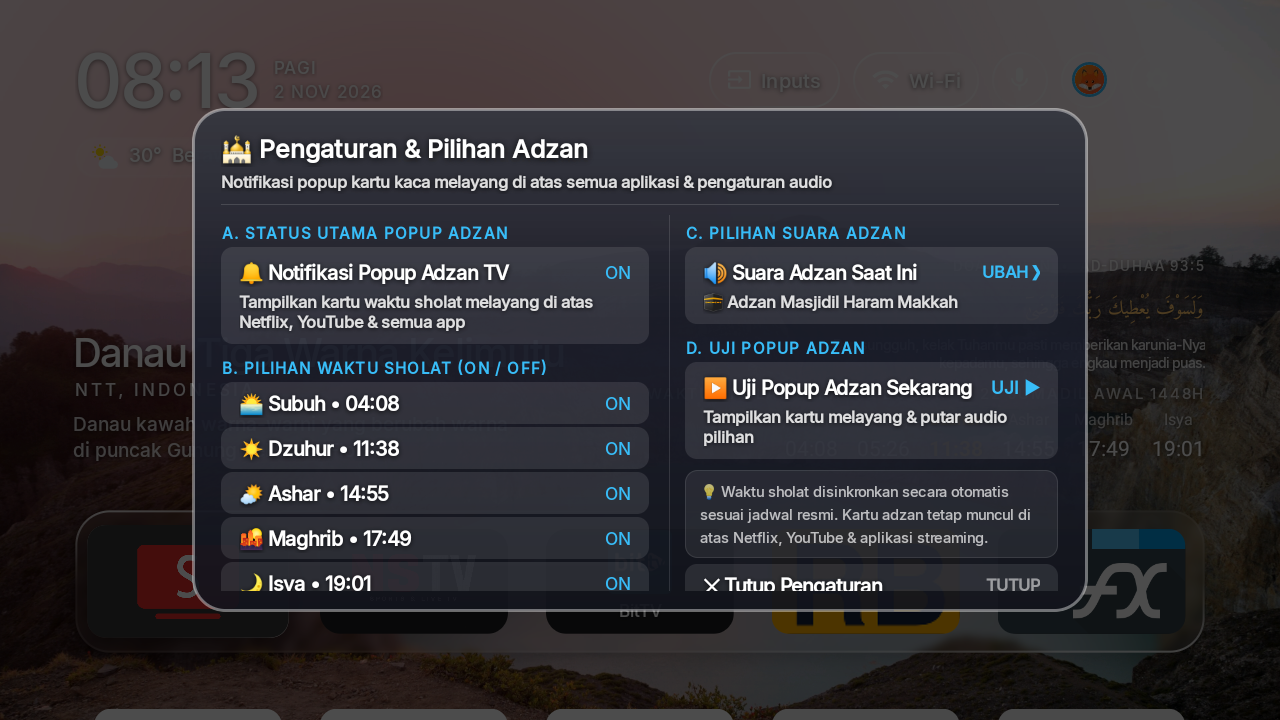
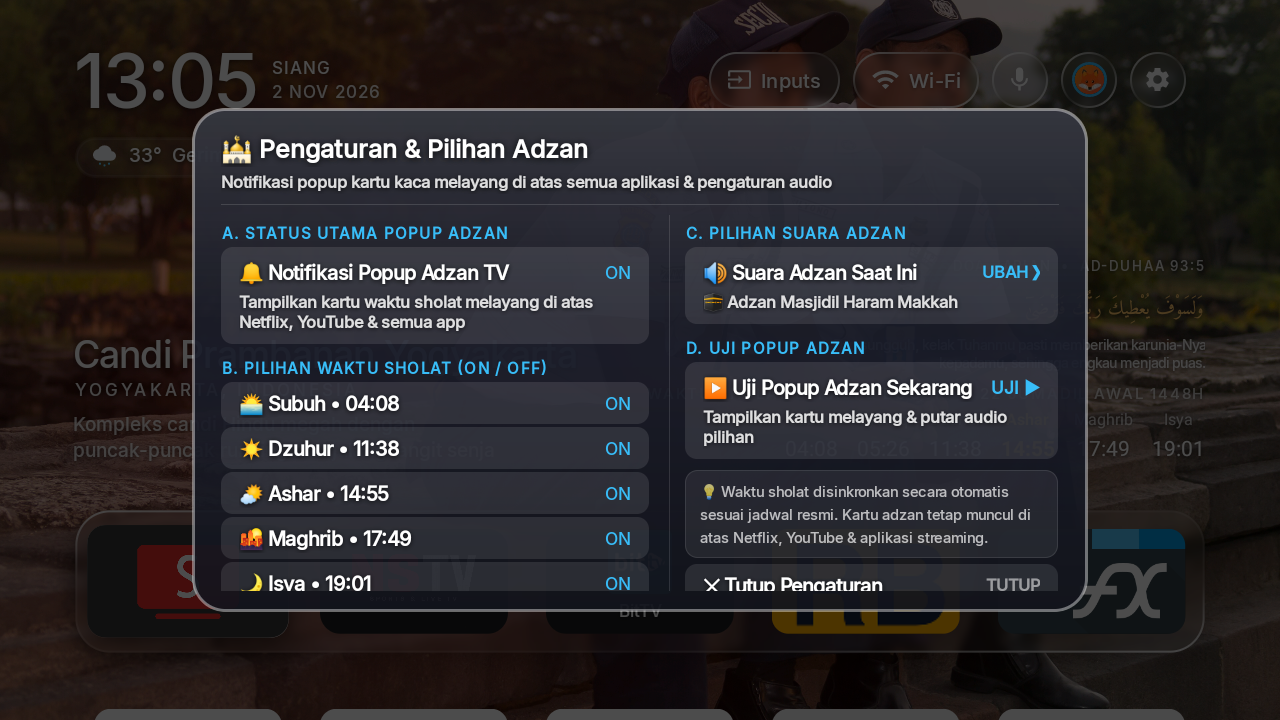
Poster promo diperbarui: tangkapan UI terbaru dan angka versi 4.0.3
- tools/create_poster.py: badge header dan watermark footer 4.0.1 menjadi 4.0.3,
  chip ukuran APK 1.6 MB menjadi 1.5 MB, subtitle menyebut empat gaya jam,
  label kartu kiri bawah "StandBy OLED Clock" menjadi "StandBy Clock • 4 Styles".
- docs/screenshots/wallpaper-dialog-live.png dan azan-popup-live.png ditangkap
  ulang langsung dari TV: screenshot lama masih menyimpan kata "Tersohor" dan
  "Tutur Pengaturan" yang di aplikasi sekarang sudah "Terkenal" dan
  "Tutup Pengaturan".
- docs/poster.html: deskripsi screensaver StandBy disamakan dengan isi v4.0.2.
- Poster hasil regenerasi: docs/screenshots/glass_tv_os_showcase_poster.jpg.

diff --git a/docs/poster.html b/docs/poster.html
@@ -272,7 +272,7 @@
           <ul class="text-xs text-slate-300 space-y-1.5 leading-relaxed">
             <li class="flex items-start gap-2">
               <span class="text-sky-400">•</span>
-              <span><strong>10-Min Inactivity:</strong> Transitions to OLED-safe burn-in protected StandBy screensaver with 110sp digits.</span>
+              <span><strong>10-Min Inactivity:</strong> Transitions to the StandBy screensaver — four clock styles over a frosted wallpaper, aurora glow or black OLED, with dimming and anti-burn-in drift.</span>
             </li>
             <li class="flex items-start gap-2">
               <span class="text-sky-400">•</span>

diff --git a/tools/create_poster.py b/tools/create_poster.py
@@ -121,7 +121,7 @@ def main():
     
     # --- HEADER SECTION ---
     # Top Pill Badge
-    badge_text = "GLASS OS 4.0.1 • LIVING ROOM OPERATING SYSTEM • ANDROID TV 9-14"
+    badge_text = "GLASS OS 4.0.3 • LIVING ROOM OPERATING SYSTEM • ANDROID TV 9-14"
     bbox_b = font_badge.getbbox(badge_text)
     bw = bbox_b[2] - bbox_b[0] + 32
     bh = 28
@@ -134,11 +134,11 @@ def main():
     
     # Title & Subtitle
     draw.text((70, 76), "Glass TV Home", font=font_title, fill=(255, 255, 255, 255))
-    draw.text((70, 132), "Mindful living room OS featuring Apple Weather Bento, 16:9 Adzan Floating Modal & StandBy Clock", font=font_subtitle, fill=(148, 163, 184, 255))
+    draw.text((70, 132), "Mindful living room OS featuring Apple Weather Bento, 16:9 Adzan Floating Modal & StandBy Clock, 4 Styles", font=font_subtitle, fill=(148, 163, 184, 255))
     
     # Right Header Metric Chips
     chips = [
-        ("1.6 MB", "Ultralight Footprint", (52, 211, 153)),
+        ("1.5 MB", "Ultralight Footprint", (52, 211, 153)),
         ("100% Leanback", "D-Pad Remote Ergonomics", (56, 189, 248)),
         ("Kemenag RI", "Zona WIB / WITA / WIT", (251, 191, 36))
     ]
@@ -210,7 +210,7 @@ def main():
         accent_color=(56, 189, 248)
     )
     
-    # 4. Bottom-Left Card: StandBy OLED Clock Screensaver
+    # 4. Bottom-Left Card: StandBy Clock Screensaver (gaya dapat dipilih)
     draw_bezel_window(
         base_img=img,
         screen_img=img_screensaver,
@@ -222,7 +222,7 @@ def main():
         shadow_offset=14,
         shadow_blur=20,
         shadow_alpha=160,
-        badge_text="StandBy OLED Clock",
+        badge_text="StandBy Clock • 4 Styles",
         badge_pos="bottom_left",
         badge_font=font_pill,
         accent_color=(147, 197, 253)
@@ -278,7 +278,7 @@ def main():
     img.alpha_composite(footer_bar, (70, 915))
     
     # Bottom subtle watermark
-    draw.text((70, 1030), "Glass TV OS • Version 4.0.1 Release Architecture • All UI captures taken directly from live Android TV build", font=font_pill, fill=(100, 116, 139, 220))
+    draw.text((70, 1030), "Glass TV OS • Version 4.0.3 Release Architecture • All UI captures taken directly from live Android TV build", font=font_pill, fill=(100, 116, 139, 220))
     draw.text((WIDTH - 380, 1030), "Designed for Xiaomi Mi Box & Android TV 9+", font=font_pill, fill=(100, 116, 139, 220))
     
     # Save as high-quality JPEG
